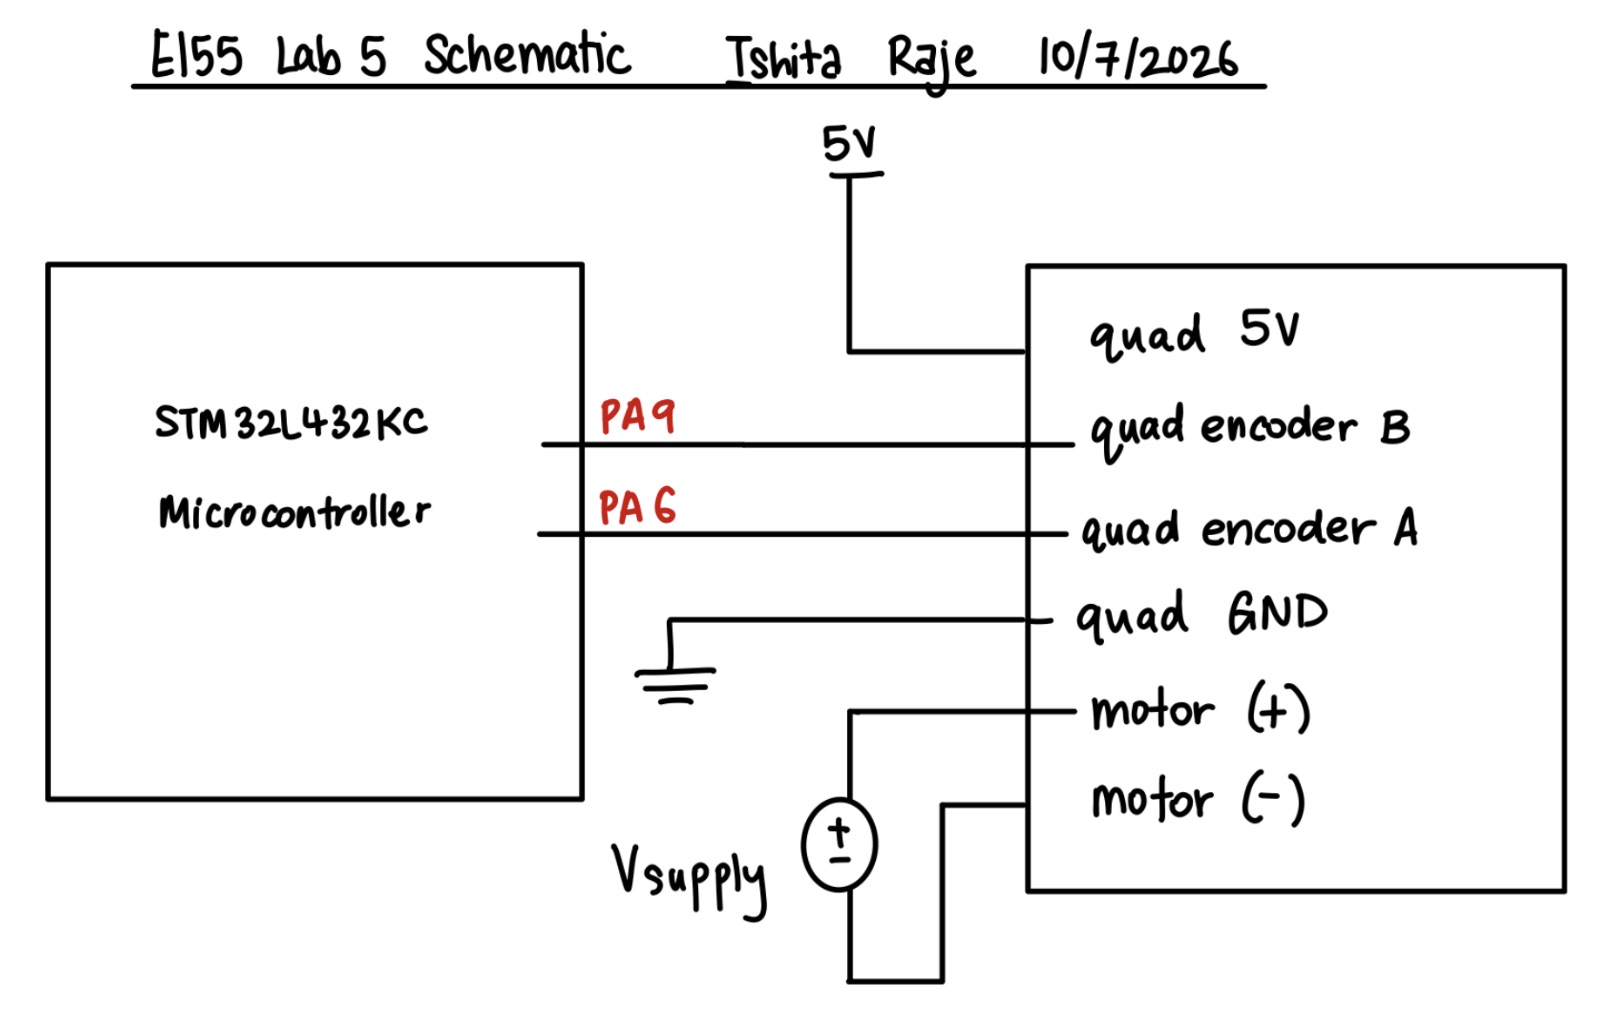
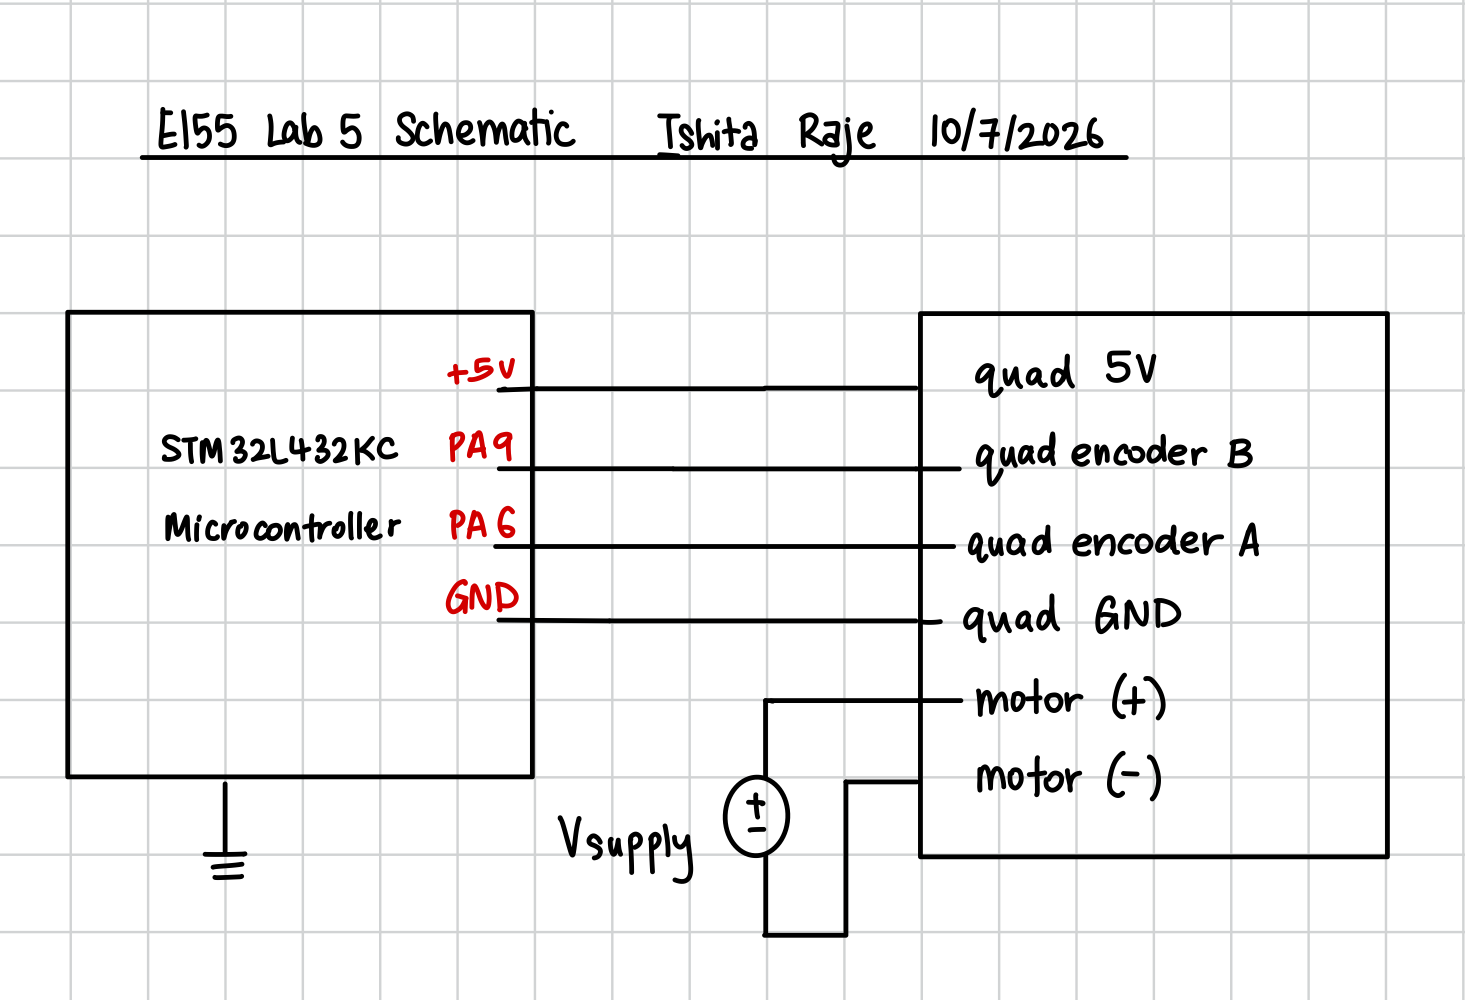
Built site for gh-pages

diff --git a/labs/lab 5/lab5.html b/labs/lab 5/lab5.html
@@ -76,6 +76,35 @@ ul.task-list li input[type="checkbox"] {
   }
 }</script>
 
+  <script src="https://cdnjs.cloudflare.com/polyfill/v3/polyfill.min.js?features=es6"></script>
+  <script defer="" src="https://cdn.jsdelivr.net/npm/mathjax@4/tex-chtml.js" type="text/javascript"></script>
+
+<script type="text/javascript">
+const typesetMath = (el) => {
+  if (window.MathJax) {
+    // MathJax Typeset
+    window.MathJax.typeset([el]);
+  } else if (window.katex) {
+    // KaTeX Render
+    var mathElements = el.getElementsByClassName("math");
+    var macros = [];
+    for (var i = 0; i < mathElements.length; i++) {
+      var texText = mathElements[i].firstChild;
+      if (mathElements[i].tagName == "SPAN" && texText && texText.data) {
+        window.katex.render(texText.data, mathElements[i], {
+          displayMode: mathElements[i].classList.contains('display'),
+          throwOnError: false,
+          macros: macros,
+          fleqn: false
+        });
+      }
+    }
+  }
+}
+window.Quarto = {
+  typesetMath
+};
+</script>
 
 <link rel="stylesheet" href="../../styles.css">
 </head>
@@ -202,6 +231,7 @@ ul.task-list li input[type="checkbox"] {
 <h1>Introduction</h1>
 <p>In this lab , I developed a C program for the STM32L432KC microcontroller to read a quadrature encoder using interrupts and detect the rotational velcoity and direction of a DC motor. The encoder generates two square-wave signals (A and B) at their output channels that are 90 degrees out of phase, allowing the determination of both the position and direction of rotation.</p>
 <p>The encoder signals were read using external interrupts on the MCU rather than polling. Both the rising and falling edges of both encoders were monitored to maximize the resolution of the position measurement. A seperate timer interrupt was used to create a one-second time window, after which the number of encoder pulses was counted and used to calculate direction and velocity. The system was designed to update the velocity and direction at 1 Hz, providing a real-time measurement of the motor’s performance.</p>
+<p><img src="images/quadrature_encoder.gif" class="img-fluid"> <img src="images/motor_wiring.jpeg" class="img-fluid"></p>
 </section>
 <section id="design-and-testing-methodology" class="level1">
 <h1>Design and Testing Methodology</h1>
@@ -229,7 +259,8 @@ ul.task-list li input[type="checkbox"] {
 </section>
 <section id="interrupts-vs-manual-polling" class="level2">
 <h2 class="anchored" data-anchor-id="interrupts-vs-manual-polling">Interrupts vs Manual Polling</h2>
-<p>At high motor speeds, interrupt-based code is more reliable than manual polling because the encoder can change state much faster than the main loop may be able to check the GPIO pins. In this design, the motor produced up to approximately 2.8 rev/s, and the encoder was treated as having 1632 detectable counts per revolution when both rising and falling edges of both channels were used. This corresponds to approximately [2.8 ]. encoder transitions per second, or one transition about every [ &nbsp;s.] A polling-based program would therefore need to check both encoder inputs substantially faster than about 4.6 kHz to reliably detect every transition, and any additional work in the main loop could cause pulses to be missed. An interrupt-based design allows the program to respond immediately to each transition, regardless of what else is happening in the main loop, ensuring accurate counting and velocity measurement. The tradeoff is that interrupts require more complex code and careful handling of shared variables, but the benefits in terms of accuracy and responsiveness are significant for this application.</p>
+<p>At high motor speeds, interrupt-based code is more reliable than manual polling because the encoder can change state much faster than the main loop may be able to check the GPIO pins. To check execution time of the interrupt handlers, the code used a GPIO pin to toggle a signal at the start and end of each interrupt. This allowed the duration of the interrupt to be measured using an oscilloscope. The oscilloscope measurements showed that the interrupt handler took approximately 4 µs to execute. Since the encoder produces 120 pulses per revolution, and given that we are counting rising and falling edges of both encoder channels, we can expect around 480 detectable transitions per revolution. At the maximum recorded motor speed of approximately 10.8 rev/s at 12V, this corresponds to approximately 193 µs between consecutive encoder transitions. Since the interrupt handler requires only 4 µs, it completes well before the next expected transition, demonstrating that the interrupt-based implementation can efficiently process encoder signals while allowing the CPU to perform other tasks between interrupts.</p>
+<p><img src="images/interrupt_oscopetrace.jpeg" class="img-fluid"></p>
 </section>
 <section id="quadrature-encoder-logic" class="level2">
 <h2 class="anchored" data-anchor-id="quadrature-encoder-logic">Quadrature Encoder Logic</h2>
@@ -241,8 +272,13 @@ ul.task-list li input[type="checkbox"] {
 <h2 class="anchored" data-anchor-id="recoding-pulses-and-calculating-velocity">Recoding Pulses and Calculating Velocity</h2>
 <p>At the end of every 1 second interval, the signed variable encoderCount conatined information on both displacement and direction. A positive value indicated clockwise rotation, while a negative value indicated counter-clockwise rotation. The absolute value of encoderCount was used to calculate the velocity in counts per second.</p>
 <p>Once the TIM16 interrupt occurred, the encoderCount was read and reset to zero for the next interval. The velocity and direction were then printed to the terminal.</p>
-<p>This specific (<a href="https://hmc-e155.github.io/lab/lab5/#:~:text=AI%20Prototype-,25GA%2D370,-Lab%205%3A%20Interrupts">25GA-370 DC Motor</a>) was specified as approximately 408 pulses per revolution. Since both edges of both encoder channels were counted, the code defined as 4 times the number of pulses per revolution, or 1632 counts per revolution. The velocity was thus calculated as:</p>
-<p><img src="images/velocitycalc.jpeg" class="img-fluid"></p>
+<p>This specific (<a href="https://hmc-e155.github.io/lab/lab5/#:~:text=AI%20Prototype-,25GA%2D370,-Lab%205%3A%20Interrupts">25GA-370 DC Motor</a>) was specified as approximately 120 pulses per revolution. Since both edges of both encoder channels were counted, the code defined as 4 times the number of pulses per revolution, or 1632 counts per revolution. The velocity was thus calculated as:</p>
+<p><span class="math display">\[
+\text{velocity} = \frac{\text{encoder count}}{\text{count / revolution} \times 1\text{s}}
+\]</span></p>
+<p><span class="math display">\[
+\text{velocity} = \frac{\text{measured Count}}{4*120} \quad (\text{rev/sec})
+\]</span></p>
 <p>main.c only performs this calculation whe. measurementReady is set, which occurs in the TIM16 interrupt handler. This ensures that the velocity is only calculated once per second, and that the encoderCount is reset for the next measurement interval.</p>
 </section>
 </section>
@@ -266,7 +302,7 @@ ul.task-list li input[type="checkbox"] {
 <section id="conclusion" class="level1">
 <h1>Conclusion</h1>
 <p>In conclusion, I successfully implemented an interrupt-based quadrature encoder system on the STM32L432KC to measure the rotational velocity and direction of a brushed DC motor. Both rising and falling edges of both encoder channels were used to improve the measurement resolution, while TIM16 generated a one-second measurement period.</p>
-<p>The motor was measured at approximately 2.8 rev/s clockwise and counterclockwise at 12 V. The use of interrupts allowed for accurate and efficient handling of encoder signals, while the timer ensured consistent measurement intervals. The system was able to provide real-time feedback on the motor’s performance and print the speed and direction, demonstrating the effectiveness of using interrupts.</p>
+<p>The motor was measured at approximately 10.8 rev/s clockwise and counterclockwise at 12 V. The use of interrupts allowed for accurate and efficient handling of encoder signals, while the timer ensured consistent measurement intervals. The system was able to provide real-time feedback on the motor’s performance and print the speed and direction, demonstrating the effectiveness of using interrupts.</p>
 <section id="time-spent---21-hours" class="level2">
 <h2 class="anchored" data-anchor-id="time-spent---21-hours">Time Spent - 21 hours</h2>
 </section>

diff --git a/blog 2.html b/blog 2.html
@@ -220,7 +220,7 @@ window.Quarto = {
 
 <div class="quarto-listing quarto-listing-container-default" id="listing-listing">
 <div class="list quarto-listing-default">
-<div class="quarto-post image-right" data-index="0" data-categories="cmVmbGVjdGlvbiUyQ2xhYnJlcG9ydA==" data-listing-date-sort="1788937200000" data-listing-file-modified-sort="1789592112882" data-listing-date-modified-sort="NaN" data-listing-reading-time-sort="1" data-listing-word-count-sort="1">
+<div class="quarto-post image-right" data-index="0" data-categories="cmVmbGVjdGlvbiUyQ2xhYnJlcG9ydA==" data-listing-date-sort="1788937200000" data-listing-file-modified-sort="1791774082908" data-listing-date-modified-sort="NaN" data-listing-reading-time-sort="1" data-listing-word-count-sort="1">
 <div class="thumbnail"><a href="./posts/first-post 3.html" class="no-external">
 
 <div class="listing-item-img-placeholder card-img-top" >&nbsp;</div>
@@ -245,7 +245,7 @@ Ishita Raje
 </a>
 </div>
 </div>
-<div class="quarto-post image-right" data-index="1" data-categories="cmVmbGVjdGlvbiUyQ2xhYnJlcG9ydA==" data-listing-date-sort="1788937200000" data-listing-file-modified-sort="1789592112882" data-listing-date-modified-sort="NaN" data-listing-reading-time-sort="1" data-listing-word-count-sort="1">
+<div class="quarto-post image-right" data-index="1" data-categories="cmVmbGVjdGlvbiUyQ2xhYnJlcG9ydA==" data-listing-date-sort="1788937200000" data-listing-file-modified-sort="1791774082908" data-listing-date-modified-sort="NaN" data-listing-reading-time-sort="1" data-listing-word-count-sort="1">
 <div class="thumbnail"><a href="./posts/first-post 2.html" class="no-external">
 
 <div class="listing-item-img-placeholder card-img-top" >&nbsp;</div>
@@ -270,7 +270,7 @@ Ishita Raje
 </a>
 </div>
 </div>
-<div class="quarto-post image-right" data-index="2" data-categories="cmVmbGVjdGlvbiUyQ2xhYnJlcG9ydA==" data-listing-date-sort="1788937200000" data-listing-file-modified-sort="1789592112882" data-listing-date-modified-sort="NaN" data-listing-reading-time-sort="1" data-listing-word-count-sort="1">
+<div class="quarto-post image-right" data-index="2" data-categories="cmVmbGVjdGlvbiUyQ2xhYnJlcG9ydA==" data-listing-date-sort="1788937200000" data-listing-file-modified-sort="1791774082908" data-listing-date-modified-sort="NaN" data-listing-reading-time-sort="1" data-listing-word-count-sort="1">
 <div class="thumbnail"><a href="./posts/first-post 4.html" class="no-external">
 
 <div class="listing-item-img-placeholder card-img-top" >&nbsp;</div>
@@ -295,7 +295,7 @@ Ishita Raje
 </a>
 </div>
 </div>
-<div class="quarto-post image-right" data-index="3" data-categories="cmVmbGVjdGlvbiUyQ2xhYnJlcG9ydA==" data-listing-date-sort="1788937200000" data-listing-file-modified-sort="1789592112883" data-listing-date-modified-sort="NaN" data-listing-reading-time-sort="1" data-listing-word-count-sort="1">
+<div class="quarto-post image-right" data-index="3" data-categories="cmVmbGVjdGlvbiUyQ2xhYnJlcG9ydA==" data-listing-date-sort="1788937200000" data-listing-file-modified-sort="1791774082908" data-listing-date-modified-sort="NaN" data-listing-reading-time-sort="1" data-listing-word-count-sort="1">
 <div class="thumbnail"><a href="./posts/first-post.html" class="no-external">
 
 <div class="listing-item-img-placeholder card-img-top" >&nbsp;</div>

diff --git a/blog 4.html b/blog 4.html
@@ -220,7 +220,7 @@ window.Quarto = {
 
 <div class="quarto-listing quarto-listing-container-default" id="listing-listing">
 <div class="list quarto-listing-default">
-<div class="quarto-post image-right" data-index="0" data-categories="cmVmbGVjdGlvbiUyQ2xhYnJlcG9ydA==" data-listing-date-sort="1788937200000" data-listing-file-modified-sort="1789592112882" data-listing-date-modified-sort="NaN" data-listing-reading-time-sort="1" data-listing-word-count-sort="1">
+<div class="quarto-post image-right" data-index="0" data-categories="cmVmbGVjdGlvbiUyQ2xhYnJlcG9ydA==" data-listing-date-sort="1788937200000" data-listing-file-modified-sort="1791774082908" data-listing-date-modified-sort="NaN" data-listing-reading-time-sort="1" data-listing-word-count-sort="1">
 <div class="thumbnail"><a href="./posts/first-post 3.html" class="no-external">
 
 <div class="listing-item-img-placeholder card-img-top" >&nbsp;</div>
@@ -245,7 +245,7 @@ Ishita Raje
 </a>
 </div>
 </div>
-<div class="quarto-post image-right" data-index="1" data-categories="cmVmbGVjdGlvbiUyQ2xhYnJlcG9ydA==" data-listing-date-sort="1788937200000" data-listing-file-modified-sort="1789592112882" data-listing-date-modified-sort="NaN" data-listing-reading-time-sort="1" data-listing-word-count-sort="1">
+<div class="quarto-post image-right" data-index="1" data-categories="cmVmbGVjdGlvbiUyQ2xhYnJlcG9ydA==" data-listing-date-sort="1788937200000" data-listing-file-modified-sort="1791774082908" data-listing-date-modified-sort="NaN" data-listing-reading-time-sort="1" data-listing-word-count-sort="1">
 <div class="thumbnail"><a href="./posts/first-post 2.html" class="no-external">
 
 <div class="listing-item-img-placeholder card-img-top" >&nbsp;</div>
@@ -270,7 +270,7 @@ Ishita Raje
 </a>
 </div>
 </div>
-<div class="quarto-post image-right" data-index="2" data-categories="cmVmbGVjdGlvbiUyQ2xhYnJlcG9ydA==" data-listing-date-sort="1788937200000" data-listing-file-modified-sort="1789592112882" data-listing-date-modified-sort="NaN" data-listing-reading-time-sort="1" data-listing-word-count-sort="1">
+<div class="quarto-post image-right" data-index="2" data-categories="cmVmbGVjdGlvbiUyQ2xhYnJlcG9ydA==" data-listing-date-sort="1788937200000" data-listing-file-modified-sort="1791774082908" data-listing-date-modified-sort="NaN" data-listing-reading-time-sort="1" data-listing-word-count-sort="1">
 <div class="thumbnail"><a href="./posts/first-post 4.html" class="no-external">
 
 <div class="listing-item-img-placeholder card-img-top" >&nbsp;</div>
@@ -295,7 +295,7 @@ Ishita Raje
 </a>
 </div>
 </div>
-<div class="quarto-post image-right" data-index="3" data-categories="cmVmbGVjdGlvbiUyQ2xhYnJlcG9ydA==" data-listing-date-sort="1788937200000" data-listing-file-modified-sort="1789592112883" data-listing-date-modified-sort="NaN" data-listing-reading-time-sort="1" data-listing-word-count-sort="1">
+<div class="quarto-post image-right" data-index="3" data-categories="cmVmbGVjdGlvbiUyQ2xhYnJlcG9ydA==" data-listing-date-sort="1788937200000" data-listing-file-modified-sort="1791774082908" data-listing-date-modified-sort="NaN" data-listing-reading-time-sort="1" data-listing-word-count-sort="1">
 <div class="thumbnail"><a href="./posts/first-post.html" class="no-external">
 
 <div class="listing-item-img-placeholder card-img-top" >&nbsp;</div>

diff --git a/blog.html b/blog.html
@@ -220,7 +220,7 @@ window.Quarto = {
 
 <div class="quarto-listing quarto-listing-container-default" id="listing-listing">
 <div class="list quarto-listing-default">
-<div class="quarto-post image-right" data-index="0" data-categories="cmVmbGVjdGlvbiUyQ2xhYnJlcG9ydA==" data-listing-date-sort="1788937200000" data-listing-file-modified-sort="1789592112882" data-listing-date-modified-sort="NaN" data-listing-reading-time-sort="1" data-listing-word-count-sort="1">
+<div class="quarto-post image-right" data-index="0" data-categories="cmVmbGVjdGlvbiUyQ2xhYnJlcG9ydA==" data-listing-date-sort="1788937200000" data-listing-file-modified-sort="1791774082908" data-listing-date-modified-sort="NaN" data-listing-reading-time-sort="1" data-listing-word-count-sort="1">
 <div class="thumbnail"><a href="./posts/first-post 3.html" class="no-external">
 
 <div class="listing-item-img-placeholder card-img-top" >&nbsp;</div>
@@ -245,7 +245,7 @@ Ishita Raje
 </a>
 </div>
 </div>
-<div class="quarto-post image-right" data-index="1" data-categories="cmVmbGVjdGlvbiUyQ2xhYnJlcG9ydA==" data-listing-date-sort="1788937200000" data-listing-file-modified-sort="1789592112882" data-listing-date-modified-sort="NaN" data-listing-reading-time-sort="1" data-listing-word-count-sort="1">
+<div class="quarto-post image-right" data-index="1" data-categories="cmVmbGVjdGlvbiUyQ2xhYnJlcG9ydA==" data-listing-date-sort="1788937200000" data-listing-file-modified-sort="1791774082908" data-listing-date-modified-sort="NaN" data-listing-reading-time-sort="1" data-listing-word-count-sort="1">
 <div class="thumbnail"><a href="./posts/first-post 2.html" class="no-external">
 
 <div class="listing-item-img-placeholder card-img-top" >&nbsp;</div>
@@ -270,7 +270,7 @@ Ishita Raje
 </a>
 </div>
 </div>
-<div class="quarto-post image-right" data-index="2" data-categories="cmVmbGVjdGlvbiUyQ2xhYnJlcG9ydA==" data-listing-date-sort="1788937200000" data-listing-file-modified-sort="1789592112882" data-listing-date-modified-sort="NaN" data-listing-reading-time-sort="1" data-listing-word-count-sort="1">
+<div class="quarto-post image-right" data-index="2" data-categories="cmVmbGVjdGlvbiUyQ2xhYnJlcG9ydA==" data-listing-date-sort="1788937200000" data-listing-file-modified-sort="1791774082908" data-listing-date-modified-sort="NaN" data-listing-reading-time-sort="1" data-listing-word-count-sort="1">
 <div class="thumbnail"><a href="./posts/first-post 4.html" class="no-external">
 
 <div class="listing-item-img-placeholder card-img-top" >&nbsp;</div>
@@ -295,7 +295,7 @@ Ishita Raje
 </a>
 </div>
 </div>
-<div class="quarto-post image-right" data-index="3" data-categories="cmVmbGVjdGlvbiUyQ2xhYnJlcG9ydA==" data-listing-date-sort="1788937200000" data-listing-file-modified-sort="1789592112883" data-listing-date-modified-sort="NaN" data-listing-reading-time-sort="1" data-listing-word-count-sort="1">
+<div class="quarto-post image-right" data-index="3" data-categories="cmVmbGVjdGlvbiUyQ2xhYnJlcG9ydA==" data-listing-date-sort="1788937200000" data-listing-file-modified-sort="1791774082908" data-listing-date-modified-sort="NaN" data-listing-reading-time-sort="1" data-listing-word-count-sort="1">
 <div class="thumbnail"><a href="./posts/first-post.html" class="no-external">
 
 <div class="listing-item-img-placeholder card-img-top" >&nbsp;</div>
